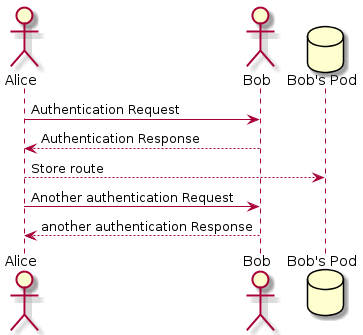
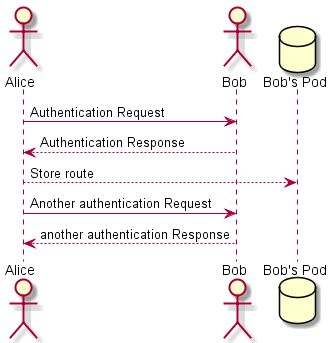
Updates

Changed region(s): [[0.0, 0.0, 0.994, 0.9851]]

diff --git a/index.html b/index.html
@@ -4,7 +4,7 @@
 <meta charset="UTF-8">
 <meta http-equiv="X-UA-Compatible" content="IE=edge">
 <meta name="viewport" content="width=device-width, initial-scale=1.0">
-<meta name="generator" content="Asciidoctor 2.0.16">
+<meta name="generator" content="Asciidoctor 2.0.17">
 <title>DeDe_en2b</title>
 <link rel="stylesheet" href="https://fonts.googleapis.com/css?family=Open+Sans:300,300italic,400,400italic,600,600italic%7CNoto+Serif:400,400italic,700,700italic%7CDroid+Sans+Mono:400,700">
 <style>
@@ -193,7 +193,8 @@ body.toc2.toc-right{padding-left:0;padding-right:20em}}
 #content h1>a.link:hover,h2>a.link:hover,h3>a.link:hover,#toctitle>a.link:hover,.sidebarblock>.content>.title>a.link:hover,h4>a.link:hover,h5>a.link:hover,h6>a.link:hover{color:#a53221}
 details,.audioblock,.imageblock,.literalblock,.listingblock,.stemblock,.videoblock{margin-bottom:1.25em}
 details{margin-left:1.25rem}
-details>summary{cursor:pointer;display:block;position:relative;line-height:1.6;margin-bottom:.625rem;-webkit-tap-highlight-color:transparent}
+details>summary{cursor:pointer;display:block;position:relative;line-height:1.6;margin-bottom:.625rem;outline:none;-webkit-tap-highlight-color:transparent}
+details>summary::-webkit-details-marker{display:none}
 details>summary::before{content:"";border:solid transparent;border-left:solid;border-width:.3em 0 .3em .5em;position:absolute;top:.5em;left:-1.25rem;transform:translateX(15%)}
 details[open]>summary::before{border:solid transparent;border-top:solid;border-width:.5em .3em 0;transform:translateY(15%)}
 details>summary::after{content:"";width:1.25rem;height:1em;position:absolute;top:.3em;left:-1.25rem}
@@ -235,9 +236,8 @@ pre.prettyprint li:not(:first-child) code[data-lang]::before{display:none}
 table.linenotable{border-collapse:separate;border:0;margin-bottom:0;background:none}
 table.linenotable td[class]{color:inherit;vertical-align:top;padding:0;line-height:inherit;white-space:normal}
 table.linenotable td.code{padding-left:.75em}
-table.linenotable td.linenos{border-right:1px solid;opacity:.35;padding-right:.5em}
-pre.pygments .lineno{border-right:1px solid;opacity:.35;display:inline-block;margin-right:.75em}
-pre.pygments .lineno::before{content:"";margin-right:-.125em}
+table.linenotable td.linenos,pre.pygments .linenos{border-right:1px solid;opacity:.35;padding-right:.5em;-webkit-user-select:none;-moz-user-select:none;-ms-user-select:none;user-select:none}
+pre.pygments span.linenos{display:inline-block;margin-right:.75em}
 .quoteblock{margin:0 1em 1.25em 1.5em;display:table}
 .quoteblock:not(.excerpt)>.title{margin-left:-1.5em;margin-bottom:.75em}
 .quoteblock blockquote,.quoteblock p{color:rgba(0,0,0,.85);font-size:1.15rem;line-height:1.75;word-spacing:.1em;letter-spacing:0;font-style:italic;text-align:justify}
@@ -274,7 +274,7 @@ table.frame-none>colgroup+*>:first-child>*,table.frame-sides>colgroup+*>:first-c
 table.frame-none>:last-child>:last-child>*,table.frame-sides>:last-child>:last-child>*{border-bottom-width:0}
 table.frame-none>*>tr>:first-child,table.frame-ends>*>tr>:first-child{border-left-width:0}
 table.frame-none>*>tr>:last-child,table.frame-ends>*>tr>:last-child{border-right-width:0}
-table.stripes-all tr,table.stripes-odd tr:nth-of-type(odd),table.stripes-even tr:nth-of-type(even),table.stripes-hover tr:hover{background:#f8f8f7}
+table.stripes-all>*>tr,table.stripes-odd>*>tr:nth-of-type(odd),table.stripes-even>*>tr:nth-of-type(even),table.stripes-hover>*>tr:hover{background:#f8f8f7}
 th.halign-left,td.halign-left{text-align:left}
 th.halign-right,td.halign-right{text-align:right}
 th.halign-center,td.halign-center{text-align:center}
@@ -290,10 +290,11 @@ ol{margin-left:1.75em}
 ul li ol{margin-left:1.5em}
 dl dd{margin-left:1.125em}
 dl dd:last-child,dl dd:last-child>:last-child{margin-bottom:0}
-ol>li p,ul>li p,ul dd,ol dd,.olist .olist,.ulist .ulist,.ulist .olist,.olist .ulist{margin-bottom:.625em}
+li p,ul dd,ol dd,.olist .olist,.ulist .ulist,.ulist .olist,.olist .ulist{margin-bottom:.625em}
 ul.checklist,ul.none,ol.none,ul.no-bullet,ol.no-bullet,ol.unnumbered,ul.unstyled,ol.unstyled{list-style-type:none}
 ul.no-bullet,ol.no-bullet,ol.unnumbered{margin-left:.625em}
 ul.unstyled,ol.unstyled{margin-left:0}
+li>p:empty:only-child::before{content:"";display:inline-block}
 ul.checklist>li>p:first-child{margin-left:-1em}
 ul.checklist>li>p:first-child>.fa-square-o:first-child,ul.checklist>li>p:first-child>.fa-check-square-o:first-child{width:1.25em;font-size:.8em;position:relative;bottom:.125em}
 ul.checklist>li>p:first-child>input[type=checkbox]:first-child{margin-right:.25em}
@@ -336,8 +337,6 @@ sup.footnote a:active,sup.footnoteref a:active{text-decoration:underline}
 #footnotes .footnote a:first-of-type{font-weight:bold;text-decoration:none;margin-left:-1.05em}
 #footnotes .footnote:last-of-type{margin-bottom:0}
 #content #footnotes{margin-top:-.625em;margin-bottom:0;padding:.75em 0}
-.gist .file-data>table{border:0;background:#fff;width:100%;margin-bottom:0}
-.gist .file-data>table td.line-data{width:99%}
 div.unbreakable{page-break-inside:avoid}
 .big{font-size:larger}
 .small{font-size:smaller}
@@ -1214,7 +1213,7 @@ building block instances depicted in this diagram.&gt;</em></p>
 </div>
 <div class="imageblock">
 <div class="content">
-<img src="./images/Sequence%20diagram.png" alt="Sequence diagram" width="363" height="335">
+<img src="./images/Sequence%20diagram.png" alt="Sequence diagram" width="332" height="343">
 </div>
 </div>
 </div>
@@ -1741,7 +1740,7 @@ Created by Dr. Peter Hruschka &amp; Dr. Gernot Starke.</p>
 </div>
 <div id="footer">
 <div id="footer-text">
-Last updated 2022-01-28 18:53:53 UTC
+Last updated 2022-01-31 22:01:36 +0100
 </div>
 </div>
 </body>
